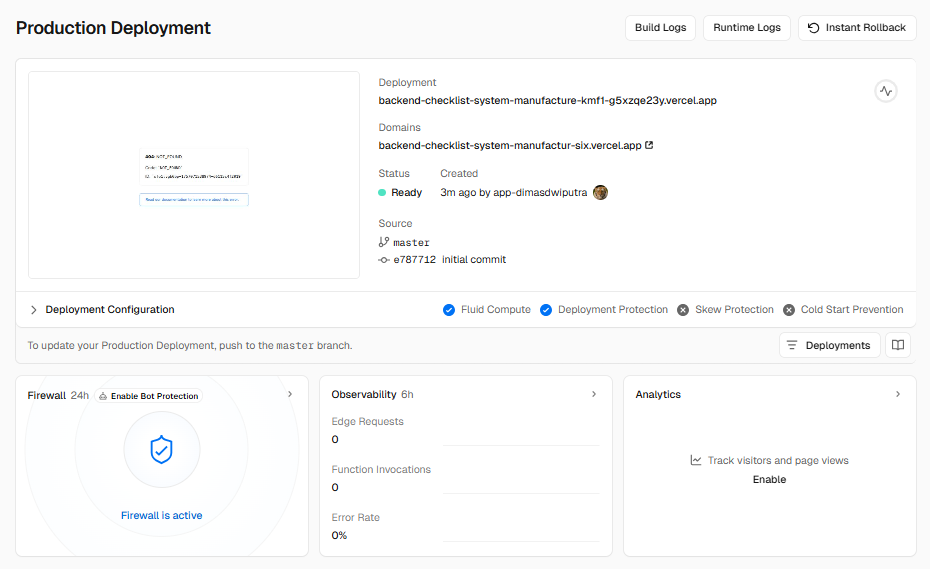
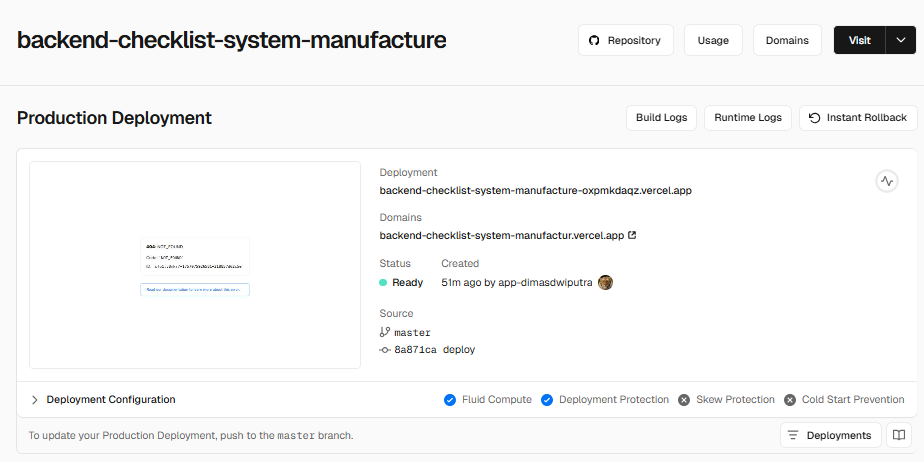
update readme.md

diff --git a/readme.md b/readme.md
@@ -1,4 +1,6 @@
 # Checklist System for Manufacture
+### Backend  : [https://backend-checklist-system-manufactur.vercel.app/](https://backend-checklist-system-manufactur.vercel.app/)
+### Frontend : [https://frontend-checklist-system-manufactu.vercel.app/](https://frontend-checklist-system-manufactu.vercel.app/)
 This is a simple [Go](https://go.dev/dl/) project for a backend and a simple [Next.js](https://nextjs.org) project for a frontend with crud, authentication, temporary database, and using vercel for deployment
 ## Getting Started
 ### Install Project go to [Here](/Install.md)
@@ -8,7 +10,7 @@ First, run the development server:
 go run main.go
 ```
 
-Open [http://localhost:9090](http://localhost:9090) with your browser to see the result.
+Open [http://localhost:9090](http://localhost:9090) with your browser to see the result (local).
 
 ## Flow Proses
 ### Login
@@ -42,18 +44,22 @@ Menghapus token dari localStorage → Redirect ke halaman login
 ```
 
 ## Front-end
+### [https://github.com/Dimas263/frontend-checklist-system-manufacture](https://github.com/Dimas263/frontend-checklist-system-manufacture)
 * Manage Checklist `CRUD` `Login Required`
 * Login `Authentication`
 * Structure
 ```dockerignore
 /frontend-checklist
   /app
-    page.js
-    login/page.js
-    checklist/page.js
+    page.js                      (halaman utama)
+    api/login/route.js           (transaksi authentikasi dengan backend, fixed cors blocked on browser)
+    login/page.js                (screen login dengan api)
+    api/checklist/route.js       (transaksi crud checklist dengan backend, fixed cors blocked on browser)
+    checklist/page.js            (screen manage checklist dengan crud api)
   package.json
 ```
 ## Back-end
+### [https://github.com/Dimas263/backend-checklist-system-manufacture](https://github.com/Dimas263/backend-checklist-system-manufacture)
 * Function Login Authentication `jwt token`
 * Function Checklist `Create` `Read` `Update` `Delete`
 * Temporary Database
@@ -62,13 +68,14 @@ Menghapus token dari localStorage → Redirect ke halaman login
 /backend-checklist
   main.go
   go.mod
-  auth.go
-  checklist.go
-  vercel.json
+  api/auth.go         (authentikasi dan jwt token)
+  api/checklist.go    (crud dengan temporary database/local storage)
+  vercel.json         (deploy backend dengan vercel)
 ```
 * API
 ```dockerignore
-http://localhost:9090
+local  : http://localhost:9090
+vercel : https://backend-checklist-system-manufactur.vercel.app/
 
 Endpoints:
 
@@ -89,3 +96,10 @@ DELETE /checklist?id=... → hapus checklist
 * Deployment: `Vercel`
 * Authentication: `JWT Token`
 * Database : `Temporary Database`, `Local Storage`
+
+### Deploy Backend with Vercel
+* Deploy go backend success on vercel
+* <img src="screenshoot/deploy_vercel_success.png" alt="deploy_backend_success" />
+* Deploy go backend dashboard
+* <img src="screenshoot/deploy_vercel_dashboard.png" alt="deploy_backend_dashboard" />
+* <img src="screenshoot/deploy_vercel_dashboard_history.png" alt="deploy_backend_dashboard_history" />
